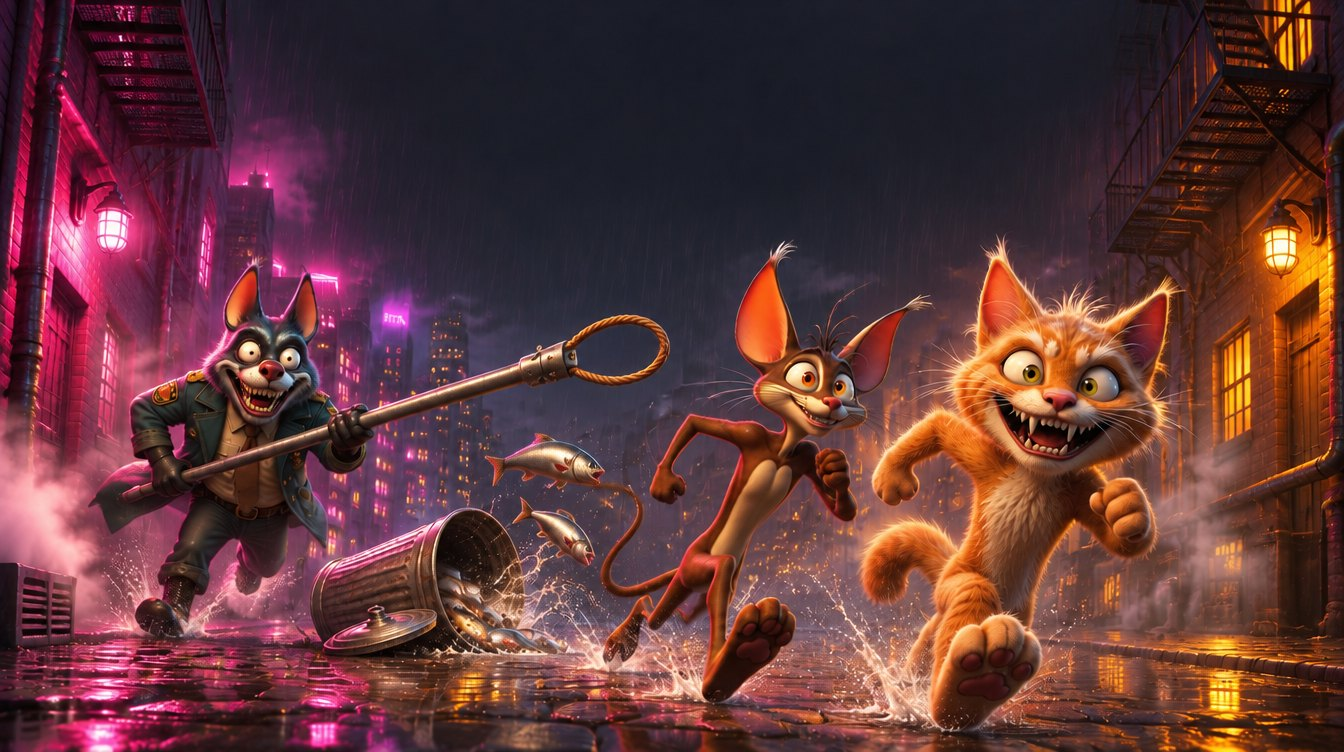
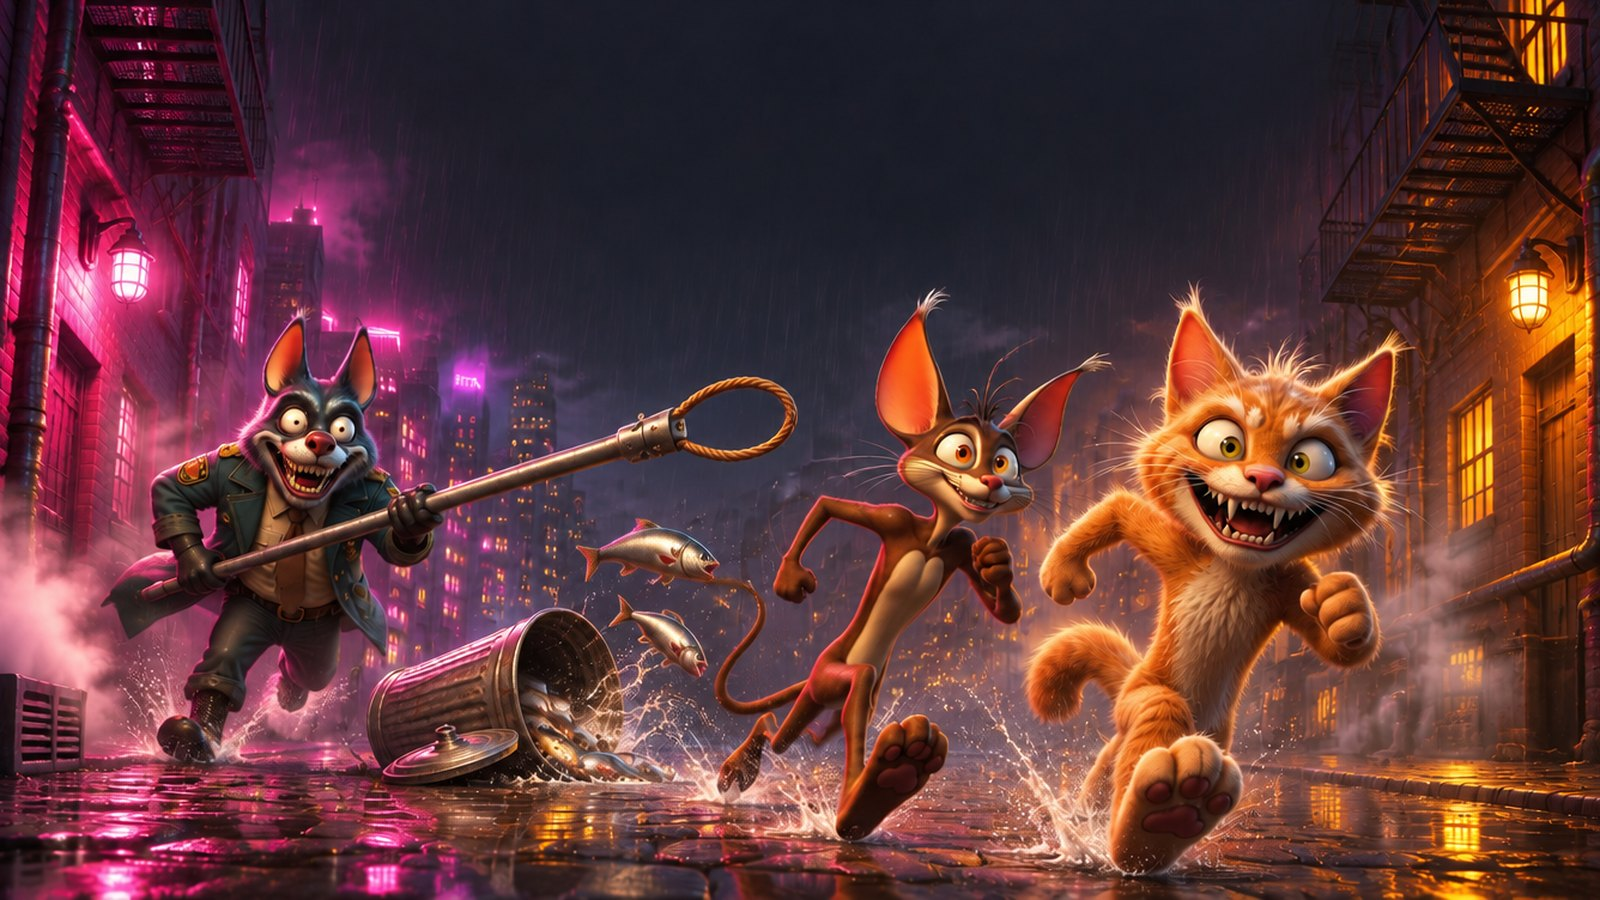
Dogcatcher Dash fix 2: wall gutters, corrected card, title card for hub and sharing
- public/games/dogcatcher-dash/index.html, tex/dd_card.jpg, tex/title_card.jpg
  as supplied (byte-for-byte)
- /games hub card now uses tex/title_card.jpg (1600x900)

diff --git a/public/games/dogcatcher-dash/index.html b/public/games/dogcatcher-dash/index.html
@@ -8,7 +8,7 @@
 <link rel="canonical" href="https://catsoncrack.co.uk/games/dogcatcher-dash/">
 <meta property="og:title" content="Dogcatcher Dash | Cats On Crack">
 <meta property="og:description" content="A free Cats On Crack endless runner. The furthest run each month wins a Cats On Crack T-shirt.">
-<meta property="og:image" content="https://catsoncrack.co.uk/games/dogcatcher-dash/tex/dd_card.jpg">
+<meta property="og:image" content="https://catsoncrack.co.uk/games/dogcatcher-dash/tex/title_card.jpg">
 <meta name="theme-color" content="#181b22">
 <link rel="stylesheet" href="fonts/fonts.css">
 <style>
@@ -874,6 +874,9 @@ const KIT = window.KIT = {
     const add = o => { o.userData.dress = true; s.add(o); return o; };
     const rnd = Math.random, edge = X.TRACK_W / 2;
     s.children.forEach(c => { if (c.userData.track) c.material = st.id === 'canal' ? MT.cobble : (st.id === 'warehouse' ? MT.concrete : MT.tarmac); });
+    // gutters: close the gap between the road edge and the walls, so the sky and fog never show through at the wall foot
+    if (!G.gutter) { G.gutter = new THREE.BoxGeometry(0.62, 0.24, X.SEG_L); MT.gutter = X.std({ color: 0x1d1a22, roughness: 0.55, metalness: 0.08 }); MT.gutterW = X.std({ color: 0x3a3630, roughness: 0.6 }); }
+    [-1, 1].forEach(sd => { if (st.id === 'canal' && sd < 0) return; const gm = add(new THREE.Mesh(G.gutter, st.id === 'warehouse' ? MT.gutterW : MT.gutter)); gm.position.set(sd * (edge + 0.3), -0.13, 0); });
     const brickWall = sd => { const w = add(new THREE.Mesh(G.wall, rnd() < 0.12 ? MT.bricks[0] : (rnd() < 0.15 ? MT.bricks[1] : MT.bricks[2 + (rnd() * 2 | 0)]))); w.position.set(sd * (edge + 0.5), 4.5, 0);
       const win = add(new THREE.Mesh(new THREE.PlaneGeometry(X.SEG_L, 5), MT.windows)); win.rotation.y = -sd * Math.PI / 2; win.position.set(sd * (edge + 0.29), 5.4, 0); win.material.map.offset.x = rnd();
       if (MT.graf && rnd() < 0.32) { const k = rnd() * 6 | 0, gw = 1.2 + rnd() * 0.9, gh = gw * KIT._grafAsp[k], d = add(new THREE.Mesh(new THREE.PlaneGeometry(gw, gh), MT.graf[k])); d.rotation.y = -sd * Math.PI / 2; d.position.set(sd * (edge + 0.285), 0.7 + gh / 2 + rnd() * 0.9, (rnd() - 0.5) * (X.SEG_L - gw - 1)); } };
